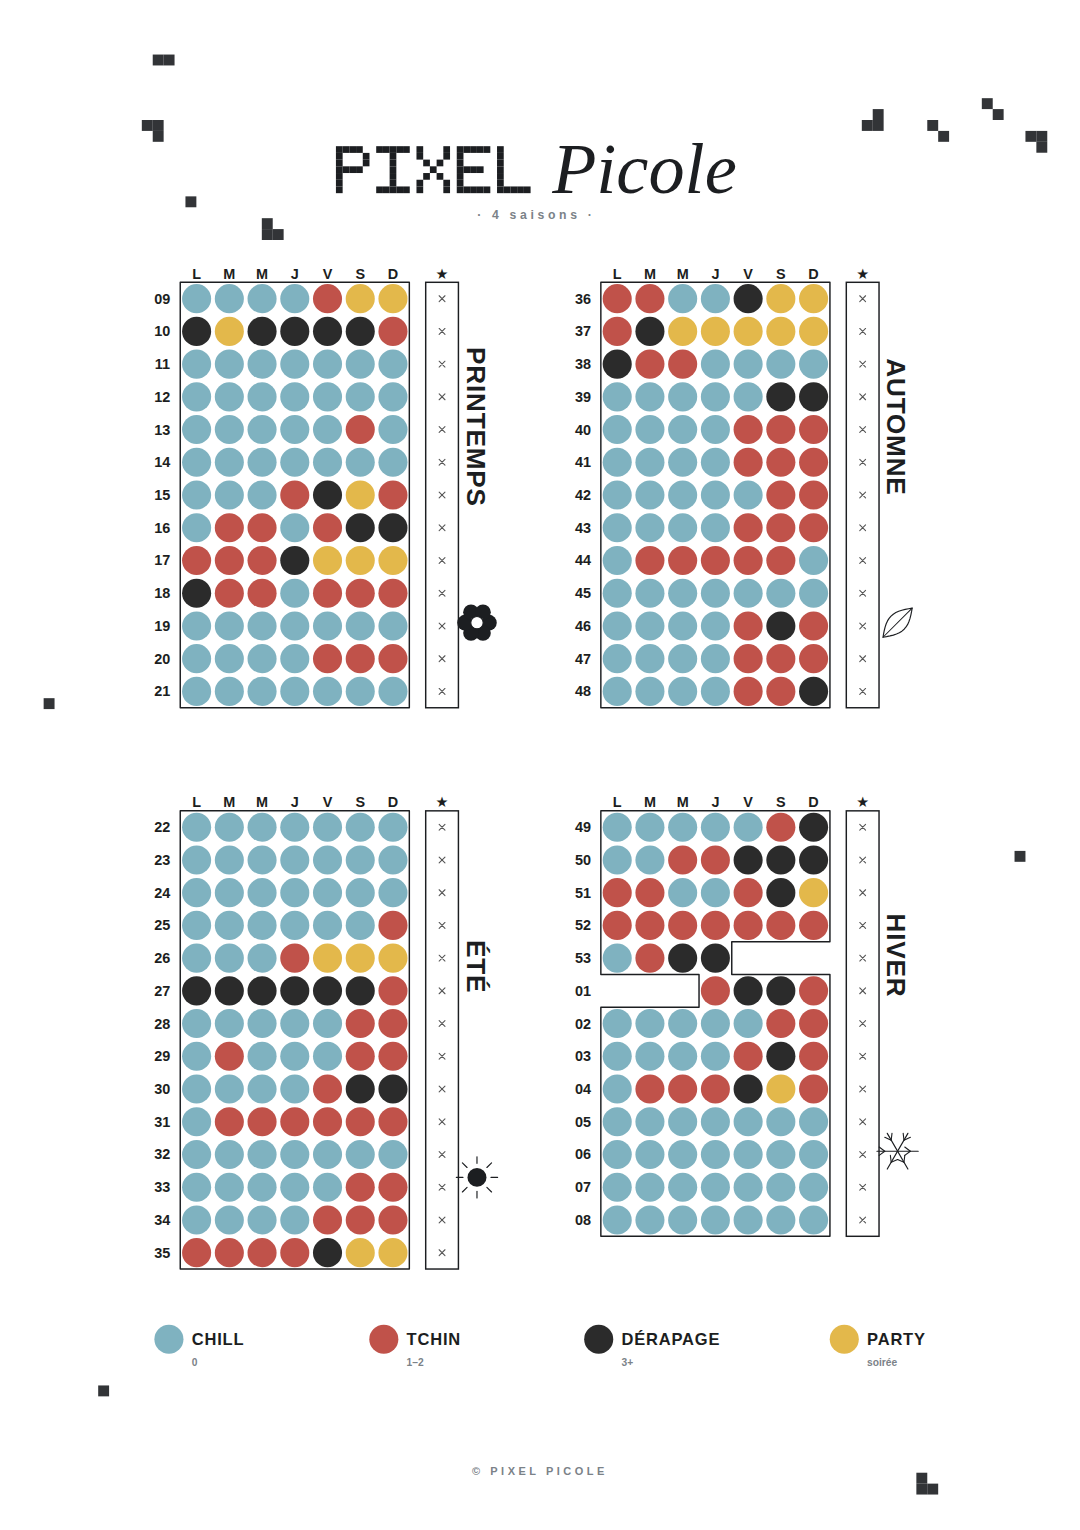
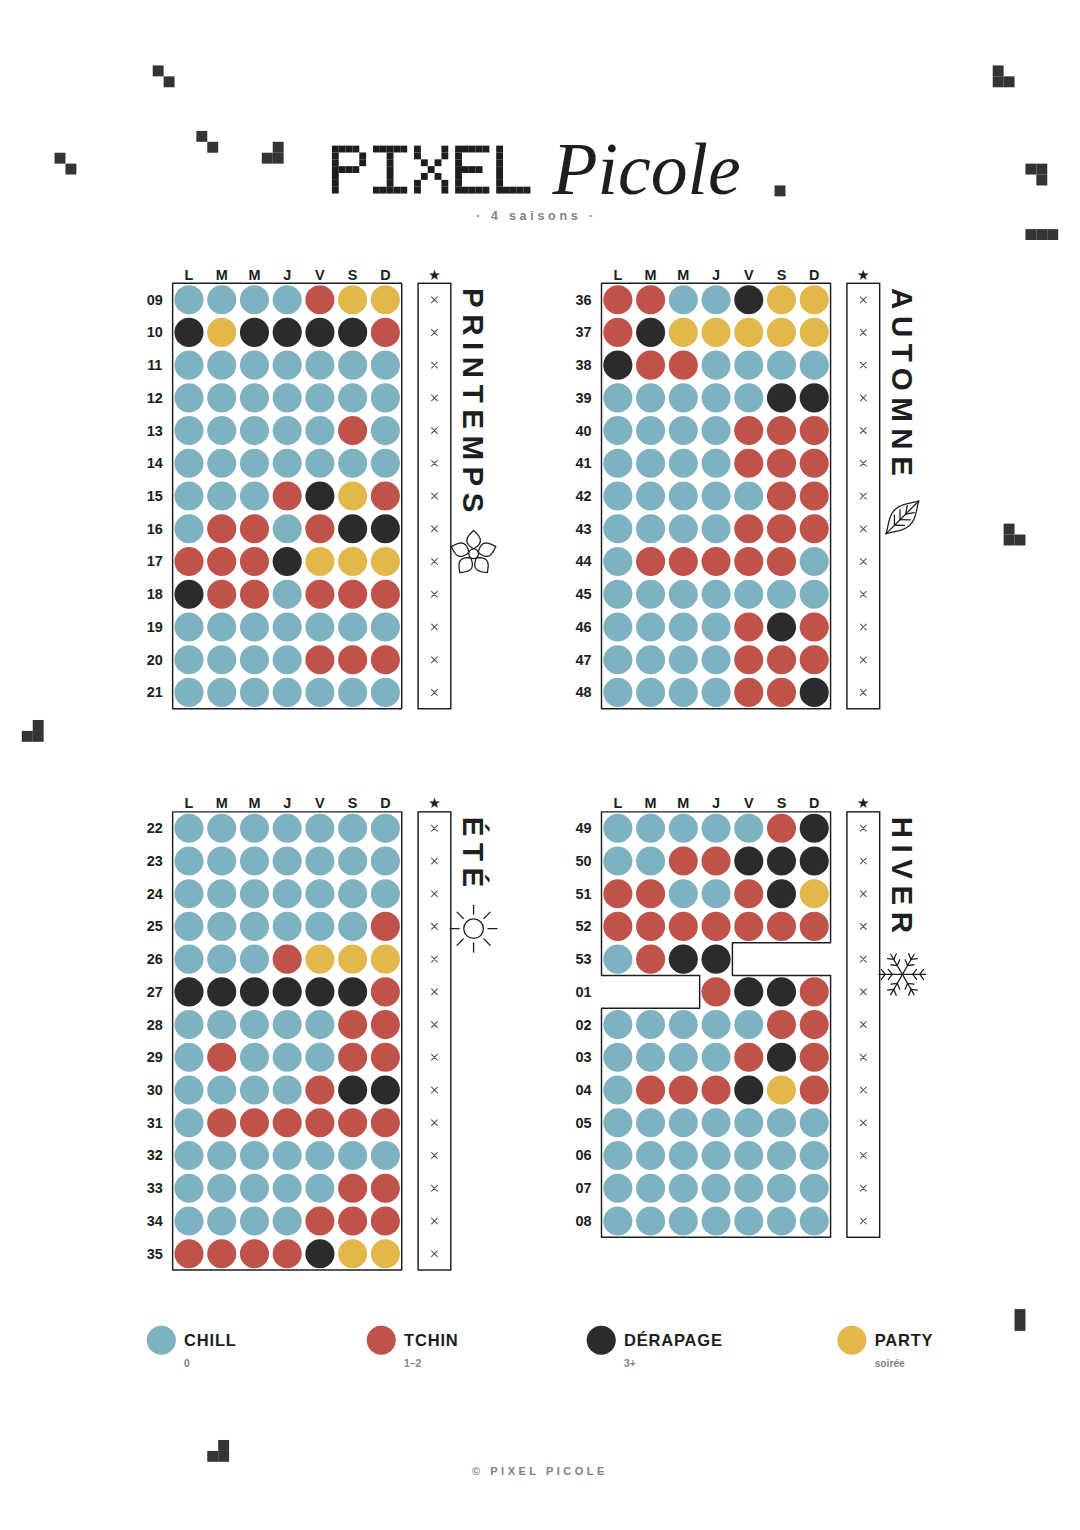
feat(seasons): redraw the marks and the lettering
The four marks had no shared grammar. The flower and the sun were solid, the
leaf an outline, the snowflake bare strokes. They are redrawn in one language:
a single stroke of the same weight, no fills, the same footprint and the same
level of detail. The flower becomes five petals seated on a centre instead of a
rose curve tangling at the middle, and the leaf veins follow the outline
instead of crossing it.

Season lettering takes the approach of the hand-drawn sheet. The name starts at
the top of the block, larger and much more openly spaced, and the mark sits
just below it. The name length is measured in the font actually in use, so the
placement holds for any season name.

README screenshots regenerated.

diff --git a/index.html b/index.html
@@ -810,40 +810,72 @@ registerDesign({
 
 /* ---------- 4.2 4 SAISONS : semaines ISO groupées par saison ---------- */
 /* Vignettes de saison en vectoriel. Aucune police de symboles à charger,
-   donc un rendu identique à l'écran, à l'impression et dans le SVG. */
+   donc un rendu identique à l'écran, à l'impression et dans le SVG.
+
+   Les quatre partagent la même grammaire : trait unique de même épaisseur,
+   aucun aplat, même encombrement, même densité de détail. Chacune se lit
+   comme un dessin au feutre fin, dans l'esprit de la planche d'origine. */
+const seasonStroke = r => Math.max(.26, r * .055);
+
 const SEASON_MARKS = {
+  /* cinq pétales posés sur un cœur */
   fleur(c, x, y, r) {
-    for (let i = 0; i < 6; i++) {
-      const a = i * Math.PI / 3;
-      c.disc(x + Math.cos(a) * r * .58, y + Math.sin(a) * r * .58, r * .38, { fill:"ink", shape:false });
+    const w = seasonStroke(r), base = r * .21, N = 16;
+    for (let k = 0; k < 5; k++) {
+      const a = -Math.PI / 2 + k * 2 * Math.PI / 5;
+      const ux = Math.cos(a), uy = Math.sin(a);          // axe du pétale
+      const at = (rad, off) => [x + ux * rad - uy * off, y + uy * rad + ux * off];
+      const wid = t => r * .29 * Math.sin(Math.PI * Math.pow(t, .88));
+      const pts = [];
+      for (let i = 0; i <= N; i++) { const t = i / N; pts.push(at(base + (r - base) * t, wid(t))); }
+      for (let i = N; i >= 0; i--) { const t = i / N; pts.push(at(base + (r - base) * t, -wid(t))); }
+      c.poly(pts, { closed: true, w });
     }
-    c.disc(x, y, r * .3, { fill:"paper", stroke:"ink", w: .3, shape:false });
+    c.disc(x, y, base, { fill: "paper", stroke: "ink", w, shape: false });
   },
+
   soleil(c, x, y, r) {
-    c.disc(x, y, r * .46, { fill:"ink", shape:false });
+    const w = seasonStroke(r);
+    c.disc(x, y, r * .42, { fill: "none", stroke: "ink", w, shape: false });
     for (let i = 0; i < 8; i++) {
-      const a = i * Math.PI / 4;
-      c.line(x + Math.cos(a) * r * .68, y + Math.sin(a) * r * .68,
-             x + Math.cos(a) * r, y + Math.sin(a) * r, { w: .32 });
+      const a = i * Math.PI / 4 - Math.PI / 2;
+      c.line(x + Math.cos(a) * r * .62, y + Math.sin(a) * r * .62,
+             x + Math.cos(a) * r, y + Math.sin(a) * r, { w });
     }
   },
+
   feuille(c, x, y, r) {
+    const w = seasonStroke(r);
     const a = -Math.PI / 4, ca = Math.cos(a), sa = Math.sin(a);
     const to = (u, v) => [x + u * ca - v * sa, y + u * sa + v * ca];
-    const pts = [];
-    for (let i = 0; i <= 14; i++) { const t = i / 14; pts.push(to((2 * t - 1) * r, Math.sin(Math.PI * t) * r * .45)); }
-    for (let i = 14; i >= 0; i--) { const t = i / 14; pts.push(to((2 * t - 1) * r, -Math.sin(Math.PI * t) * r * .45)); }
-    c.poly(pts, { closed: true, w: .32 });
-    c.line(to(-r, 0)[0], to(-r, 0)[1], to(r, 0)[0], to(r, 0)[1], { w: .28 });
+    const edge = t => Math.pow(Math.sin(Math.PI * t), 1.2) * r * .46;
+    const pts = [], N = 20;
+    for (let i = 0; i <= N; i++) { const t = i / N; pts.push(to((2 * t - 1) * r, edge(t))); }
+    for (let i = N; i >= 0; i--) { const t = i / N; pts.push(to((2 * t - 1) * r, -edge(t))); }
+    c.poly(pts, { closed: true, w });
+    c.line(...to(-r, 0), ...to(r * .9, 0), { w });
+    for (const tb of [.26, .43, .60]) {                    // nervures secondaires
+      const te = tb + .15;                                 // elles filent vers la pointe
+      const b = to((2 * tb - 1) * r, 0);
+      for (const sg of [1, -1]) {
+        const e = to((2 * te - 1) * r, sg * edge(te) * .7);
+        c.line(b[0], b[1], e[0], e[1], { w });
+      }
+    }
   },
+
   flocon(c, x, y, r) {
+    const w = seasonStroke(r);
     for (let i = 0; i < 3; i++) {
       const a = i * Math.PI / 3, dx = Math.cos(a) * r, dy = Math.sin(a) * r;
-      c.line(x - dx, y - dy, x + dx, y + dy, { w: .32 });
+      c.line(x - dx, y - dy, x + dx, y + dy, { w });
       for (const sg of [1, -1]) {
-        const px = x + dx * sg * .62, py = y + dy * sg * .62;
-        for (const t of [2.5, -2.5])
-          c.line(px, py, px + Math.cos(a + t) * r * .34, py + Math.sin(a + t) * r * .34, { w: .3 });
+        const arm = sg > 0 ? a : a + Math.PI;
+        for (const f of [.44, .74]) {                      // deux paires de barbes
+          const px = x + dx * sg * f, py = y + dy * sg * f;
+          for (const d of [.92, -.92])
+            c.line(px, py, px + Math.cos(arm + d) * r * .27, py + Math.sin(arm + d) * r * .27, { w });
+        }
       }
     }
   }
@@ -917,7 +949,7 @@ function seasonBlock(x, season, frame, forceYearW) {
   const numW  = fs * 2.6;
   const lw    = yearW + numW;
   const gapS  = P * .5;
-  const nameW = fs * 3.0;
+  const nameW = fs * 3.6;
   const gridW = 7 * P + (o.star ? gapS + P : 0);
   const headH = P * .95;
 
@@ -978,10 +1010,21 @@ function seasonBlock(x, season, frame, forceYearW) {
         }
       }
 
+      // Le nom court du haut du bloc vers le bas, très espacé, et la vignette
+      // se centre dans ce qui reste dessous. Même parti pris que la planche
+      // dessinée à la main.
       const bh = rws.length * P;
-      c.txt(gx + gridW + nameW * .42, gy + bh * .34, season.name,
-            { rot: 90, size: fs * 1.9, weight: 800, track: fs * .06 });
-      SEASON_MARKS[season.mark](c, gx + gridW + nameW * .45, gy + bh * .8, fs * 1.5);
+      const nx = gx + gridW + nameW * .46;
+      const nameSize = fs * 2.15, track = nameSize * .22;
+      const nameLen = measureW(season.name, nameSize, 800, SANS, false)
+                    + season.name.length * track;
+      const top = gy + P * .15;
+      c.txt(nx, top + nameLen / 2, season.name,
+            { rot: 90, size: nameSize, weight: 800, track });
+      const rest = gy + bh - (top + nameLen);
+      const ir = clamp(rest * .34, fs * .7, fs * 1.7);
+      const iy = Math.min(top + nameLen + ir * 1.5, gy + bh - ir * 1.15);
+      SEASON_MARKS[season.mark](c, nx, iy, ir);
     }
   };
 }
